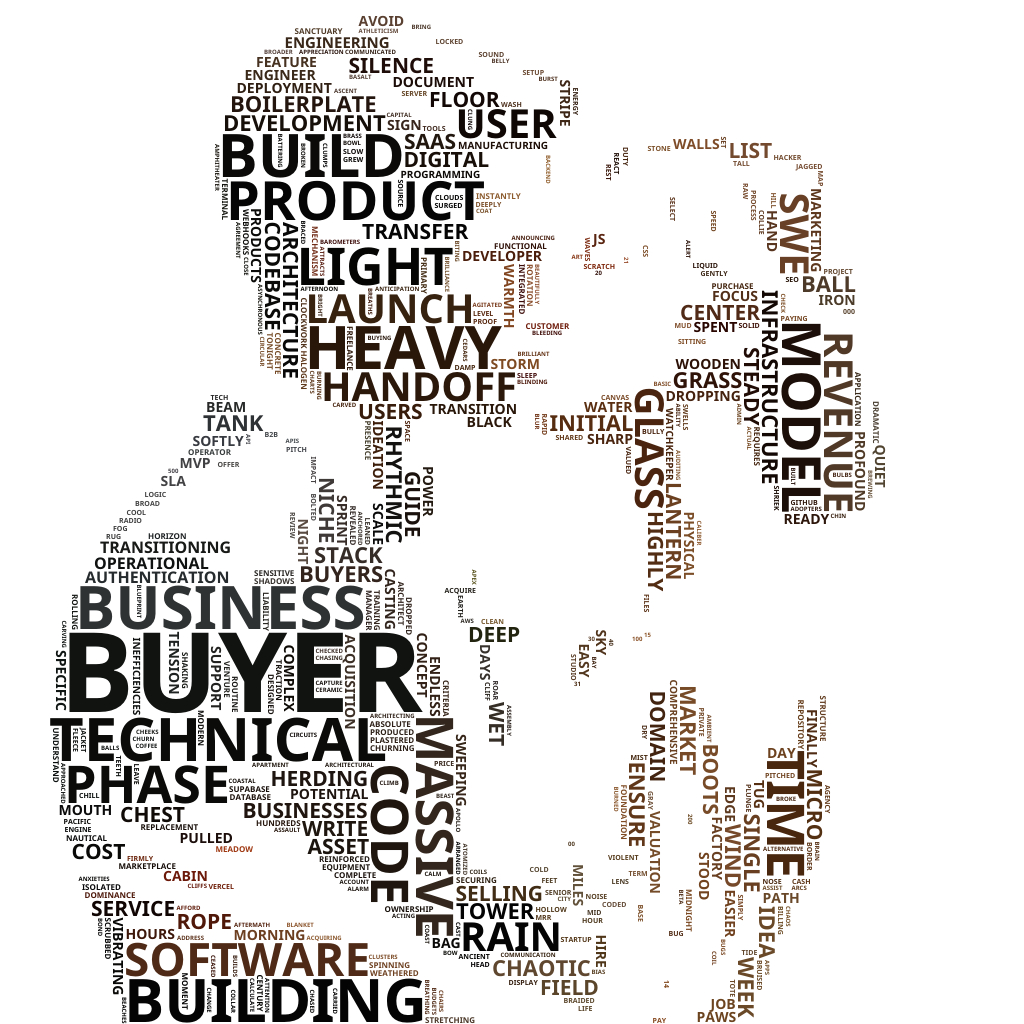
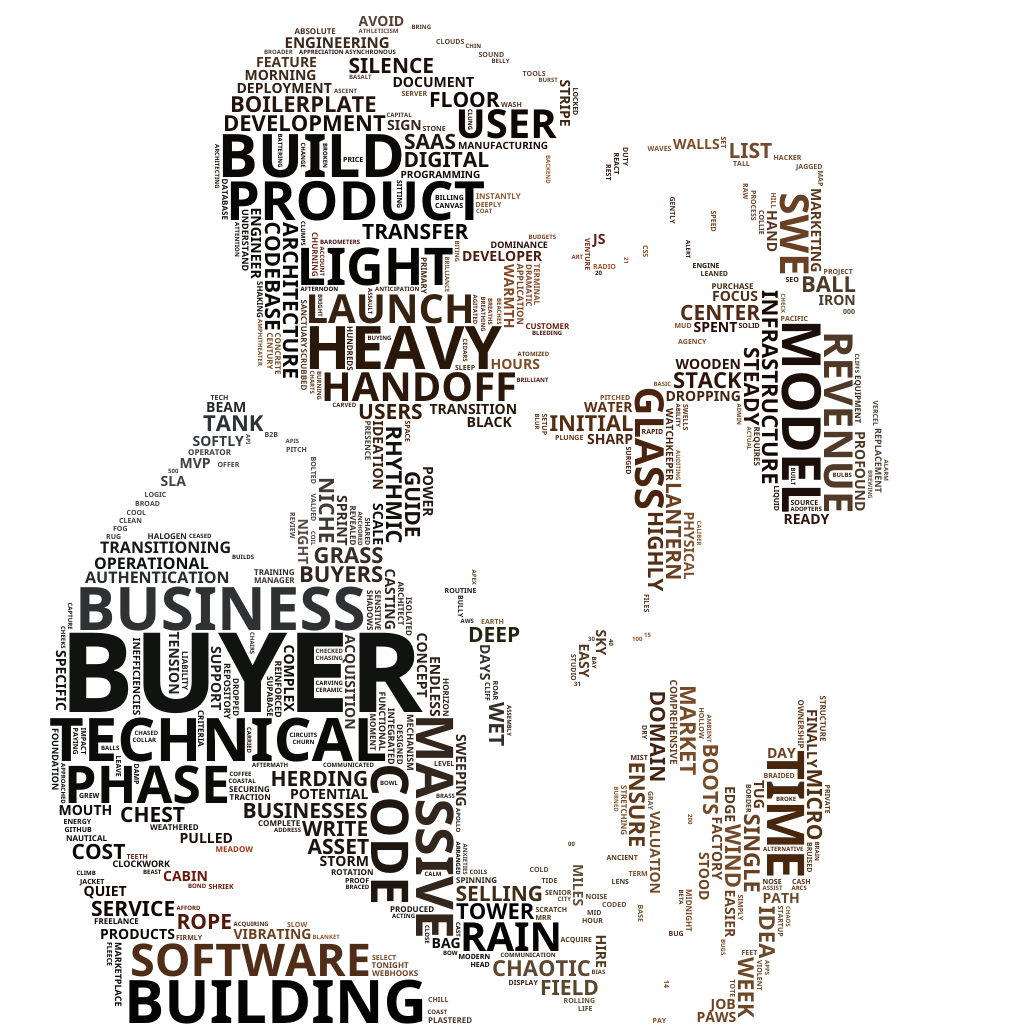
simplify glyph reservation around rectangular placement

diff --git a/internal/effects/wordcloud/placement.go b/internal/effects/wordcloud/placement.go
@@ -67,20 +67,14 @@ func (ctx *PlacementContext) Place(word textutil.Word, maxFontSize, minFontSize 
 	if err != nil {
 		return PlacedWord{}, err
 	}
-	for size := int(fittingWord.FontSize); size >= minimum; size-- {
-		candidate := fittingWord
-		if size != int(fittingWord.FontSize) {
-			candidate, err = textutil.Resize(word, float64(size))
-			if err != nil {
-				return PlacedWord{}, err
-			}
-		}
-		placed, ok, err := ctx.tryPlaceAtSize(candidate)
-		if err != nil || ok {
-			return placed, err
-		}
+	placed, ok, err := ctx.tryPlaceAtSize(fittingWord)
+	if err != nil {
+		return PlacedWord{}, err
 	}
-	return PlacedWord{}, fmt.Errorf("%w at %dpx", errNoPlacement, minimum)
+	if !ok {
+		return PlacedWord{}, errors.New("fitting size became unavailable before reservation")
+	}
+	return placed, nil
 }
 
 // findSmallerFittingWord searches without reserving space. The desired size
@@ -148,7 +142,7 @@ func (ctx *PlacementContext) fits(word textutil.Word) (bool, error) {
 }
 
 func (ctx *PlacementContext) tryPlaceAtSize(word textutil.Word) (PlacedWord, bool, error) {
-	center, angle, found, err := ctx.choosePlacementCenter(word, false)
+	center, angle, found, err := ctx.choosePlacementCenter(word)
 	if err != nil || !found {
 		return PlacedWord{}, false, err
 	}
@@ -158,29 +152,8 @@ func (ctx *PlacementContext) tryPlaceAtSize(word textutil.Word) (PlacedWord, boo
 			return PlacedWord{}, false, err
 		}
 		defer glyph.Close()
-		reserved, err := ctx.reserveGlyph(glyph, ctx.footprint(word, angle), center)
-		if err != nil {
+		if err := ctx.reserveGlyph(glyph, ctx.footprint(word, angle), center); err != nil {
 			return PlacedWord{}, false, err
-		}
-		if !reserved {
-			// The measured rectangle fitted, but the rendered ink overhangs it.
-			// Search legal centers with both the rectangle and glyph validated.
-			center, angle, found, err = ctx.choosePlacementCenter(word, true)
-			if err != nil || !found {
-				return PlacedWord{}, false, err
-			}
-			corrected, err := rasterizeGlyph(word, ctx.fontPath, angle, ctx.wordPadding)
-			if err != nil {
-				return PlacedWord{}, false, err
-			}
-			defer corrected.Close()
-			reserved, err = ctx.reserveGlyph(corrected, ctx.footprint(word, angle), center)
-			if err != nil {
-				return PlacedWord{}, false, err
-			}
-			if !reserved {
-				return PlacedWord{}, false, errors.New("glyph-safe center could not be reserved")
-			}
 		}
 	} else {
 		if err := ctx.reserveFootprint(ctx.footprint(word, angle), center); err != nil {
@@ -190,7 +163,7 @@ func (ctx *PlacementContext) tryPlaceAtSize(word textutil.Word) (PlacedWord, boo
 	return PlacedWord{Word: word, X: float64(center.X), Y: float64(center.Y), Angle: angle}, true, nil
 }
 
-func (ctx *PlacementContext) choosePlacementCenter(word textutil.Word, checkGlyph bool) (image.Point, int, bool, error) {
+func (ctx *PlacementContext) choosePlacementCenter(word textutil.Word) (image.Point, int, bool, error) {
 	options := make([]orientedCenters, 0, len(ctx.angles))
 	defer func() {
 		for _, option := range options {
@@ -202,38 +175,19 @@ func (ctx *PlacementContext) choosePlacementCenter(word textutil.Word, checkGlyp
 		if err != nil {
 			return image.Point{}, 0, false, err
 		}
-		if checkGlyph {
-			glyph, err := rasterizeGlyph(word, ctx.fontPath, angle, ctx.wordPadding)
-			if err != nil {
-				centers.Close()
-				return image.Point{}, 0, false, err
-			}
-			allowed, err := ctx.space.ValidCentersMask(glyph.mask, glyph.offset)
-			glyph.Close()
-			if err != nil {
-				centers.Close()
-				return image.Point{}, 0, false, err
-			}
-			filtered := gocv.NewMat()
-			err = gocv.BitwiseAnd(centers, allowed, &filtered)
-			centers.Close()
-			allowed.Close()
-			if err != nil {
-				filtered.Close()
-				return image.Point{}, 0, false, err
-			}
-			centers = filtered
-		}
 		options = append(options, orientedCenters{angle: angle, centers: centers})
 	}
 	return ctx.regions.choose(options)
 }
 
-func (ctx *PlacementContext) reserveGlyph(glyph glyphFootprint, rectangle, center image.Point) (bool, error) {
+func (ctx *PlacementContext) reserveGlyph(glyph glyphFootprint, rectangle, center image.Point) error {
 	origin := center.Add(glyph.offset)
 	reserved, err := ctx.space.ReserveMask(glyph.mask, origin)
-	if err != nil || !reserved {
-		return false, err
+	if err != nil {
+		return err
+	}
+	if !reserved {
+		return ctx.reserveFootprint(rectangle, center)
 	}
 	// Keep the original rectangular region score. Only collision space uses the
 	// glyph shape; region ranking is independent of the font's stroke weight.
@@ -244,9 +198,9 @@ func (ctx *PlacementContext) reserveGlyph(glyph glyphFootprint, rectangle, cente
 	updated := gocv.NewMat()
 	defer updated.Close()
 	if err := gocv.BitwiseOr(occupied, glyph.mask, &updated); err != nil {
-		return false, err
+		return err
 	}
-	return true, updated.CopyTo(&occupied)
+	return updated.CopyTo(&occupied)
 }
 
 // reserveFootprint keeps free space, region usage, and diagnostics in sync.

diff --git a/internal/layout/free_space.go b/internal/layout/free_space.go
@@ -55,38 +55,6 @@ func (s *FreeSpace) ValidCenters(size image.Point) (gocv.Mat, error) {
 	return result, nil
 }
 
-// ValidCentersMask returns centers where every nonzero mask pixel fits in free
-// space. Offset locates the mask's top-left corner relative to the word center.
-func (s *FreeSpace) ValidCentersMask(mask gocv.Mat, offset image.Point) (gocv.Mat, error) {
-	if mask.Empty() || mask.Type() != gocv.MatTypeCV8UC1 {
-		return gocv.NewMat(), errors.New("glyph footprint requires a nonempty binary mask")
-	}
-	minX, minY := min(0, offset.X), min(0, offset.Y)
-	maxX, maxY := max(1, offset.X+mask.Cols()), max(1, offset.Y+mask.Rows())
-	width, height := maxX-minX, maxY-minY
-	if width > s.free.Cols() || height > s.free.Rows() {
-		return gocv.NewMatWithSize(s.free.Rows(), s.free.Cols(), gocv.MatTypeCV8UC1), nil
-	}
-	kernel := gocv.NewMatWithSize(height, width, gocv.MatTypeCV8UC1)
-	defer kernel.Close()
-	region := kernel.Region(image.Rect(offset.X-minX, offset.Y-minY, offset.X-minX+mask.Cols(), offset.Y-minY+mask.Rows()))
-	if err := mask.CopyTo(&region); err != nil {
-		region.Close()
-		return gocv.NewMat(), err
-	}
-	region.Close()
-	result := gocv.NewMat()
-	err := gocv.ErodeWithParamsAndBorderValue(
-		s.free, &result, kernel, image.Pt(-minX, -minY),
-		1, gocv.BorderConstant, gocv.NewScalar(0, 0, 0, 0),
-	)
-	if err != nil {
-		result.Close()
-		return gocv.NewMat(), err
-	}
-	return result, nil
-}
-
 // Reserve removes a footprint from free space. It returns false without
 // changing anything when the proposed rectangle is outside or occupied.
 func (s *FreeSpace) Reserve(size, center image.Point) bool {

diff --git a/internal/layout/free_space_test.go b/internal/layout/free_space_test.go
@@ -115,46 +115,6 @@ func TestReserveMaskKeepsGapsAvailableToRectangles(t *testing.T) {
 	}
 }
 
-func TestValidCentersMaskMatchesPixelChecksWithOffset(t *testing.T) {
-	allowed := maskFromRows([]string{
-		"########", "##..####", "########", "########", "########", "########",
-	})
-	defer allowed.Close()
-	space, err := NewFreeSpace(allowed)
-	if err != nil {
-		t.Fatal(err)
-	}
-	defer space.Close()
-	glyph := maskFromRows([]string{"#.#", ".#."})
-	defer glyph.Close()
-	for _, offset := range []image.Point{image.Pt(-2, -1), image.Pt(1, 2)} {
-		centers, err := space.ValidCentersMask(glyph, offset)
-		if err != nil {
-			t.Fatal(err)
-		}
-		for y := 0; y < allowed.Rows(); y++ {
-			for x := 0; x < allowed.Cols(); x++ {
-				want := true
-				for gy := 0; gy < glyph.Rows(); gy++ {
-					for gx := 0; gx < glyph.Cols(); gx++ {
-						if glyph.GetUCharAt(gy, gx) == 0 {
-							continue
-						}
-						px, py := x+offset.X+gx, y+offset.Y+gy
-						if px < 0 || py < 0 || px >= allowed.Cols() || py >= allowed.Rows() || allowed.GetUCharAt(py, px) == 0 {
-							want = false
-						}
-					}
-				}
-				if got := centers.GetUCharAt(y, x) != 0; got != want {
-					t.Errorf("offset %v center (%d,%d): got %v, want %v", offset, x, y, got, want)
-				}
-			}
-		}
-		centers.Close()
-	}
-}
-
 func maskFromRows(rows []string) gocv.Mat {
 	mask := gocv.NewMatWithSize(len(rows), len(rows[0]), gocv.MatTypeCV8UC1)
 	for y, row := range rows {

diff --git a/internal/effects/wordcloud/placement_test.go b/internal/effects/wordcloud/placement_test.go
@@ -137,37 +137,6 @@ func TestProbeKeepsRectangularReservation(t *testing.T) {
 	}
 }
 
-func TestGlyphOverhangFindsAnotherCenter(t *testing.T) {
-	ctx := placementContextForShape(t, image.Rect(0, 0, 100, 100), 1)
-	ctx.angles = []int{90}
-	word, err := textutil.MeasureWord("I", 1, wordcloudTestFontPath(t), 60)
-	if err != nil {
-		t.Fatal(err)
-	}
-	first, _, found, err := ctx.choosePlacementCenter(word, false)
-	if err != nil || !found {
-		t.Fatalf("choose rectangular center: found=%v err=%v", found, err)
-	}
-	glyph, err := rasterizeGlyph(word, ctx.fontPath, 90, ctx.wordPadding)
-	if err != nil {
-		t.Fatal(err)
-	}
-	defer glyph.Close()
-	if first.Add(glyph.offset).X >= 0 {
-		t.Fatalf("test needs a center with a glyph overhang: %v", first)
-	}
-	placed, err := ctx.Place(word, 60, 60)
-	if err != nil {
-		t.Fatal(err)
-	}
-	if placed.Angle != 90 || placed.Word.FontSize != 60 || int(placed.X) == first.X {
-		t.Fatalf("did not keep size and choose a safe vertical center: %+v", placed)
-	}
-	if !image.Pt(int(placed.X)+glyph.offset.X, int(placed.Y)+glyph.offset.Y).In(image.Rect(0, 0, 100, 100)) {
-		t.Fatal("glyph origin remained outside the canvas")
-	}
-}
-
 func TestGlyphReservationCoversRenderedPixelsAtBothAngles(t *testing.T) {
 	for _, angle := range []int{0, 90} {
 		t.Run(fmt.Sprintf("%d-degrees", angle), func(t *testing.T) {

diff --git a/docs/how-the-effects-work.md b/docs/how-the-effects-work.md
@@ -419,8 +419,9 @@ words, the renderer's glyph pixels are rasterized once after choosing a center,
 enclosed letter holes are filled, and padding expands the shape. Only those
 pixels are removed from free space. Space around and between large letters can
 then hold later words, while small words keep the faster rectangular path. If
-glyph pixels overhang the measured rectangle into unavailable space, placement
-checks another center against both shapes instead of accepting the collision.
+glyph pixels extend into unavailable space beyond the measured rectangle,
+placement falls back to reserving the rectangle. The fit check uses font
+measurements, which can differ slightly from the rendered pixels.
 
 ### Step 8: Find every legal center
 
@@ -466,9 +467,8 @@ The erosion anchor and reservation use the same convention. Matching those two
 operations prevents one-pixel disagreements about what a center represents.
 
 **“Exact fit” refers to these measured, padded rectangles on the integer grid.**
-The glyph reservation for larger words changes subsequent free space. A
-rendered glyph that overhangs its measured rectangle gets an additional fit
-check. It does not mean perfect image
+The glyph reservation for larger words changes subsequent free space, but not
+the placement search. It does not mean perfect image
 segmentation or a globally optimal arrangement. Tests compare the center maps against checking
 every rectangle pixel directly on small irregular shapes.
 

diff --git a/README.md b/README.md
@@ -118,9 +118,8 @@ binary map of the remaining silhouette. OpenCV's
 rectangular erosion returns every integer center at which a measured, padded
 rectangle fits wholly within that map. Words at 24 px or smaller reserve that
 rectangle. Larger words reserve their padded, rendered glyph pixels, leaving
-space around the letters for later words. If glyph pixels extend beyond the
-measured rectangle into unavailable space, placement finds another center
-where both the rectangle and rendered glyph fit. Tests compare legal centers
+space around the letters for later words. If the raster does not fit at the
+chosen center, placement retains the measured rectangle. Tests compare legal centers
 pixel for pixel against
 exhaustive rectangle checks on small irregular shapes. The exactness claim
 applies to the fit checks, not the rendered glyph outlines.
